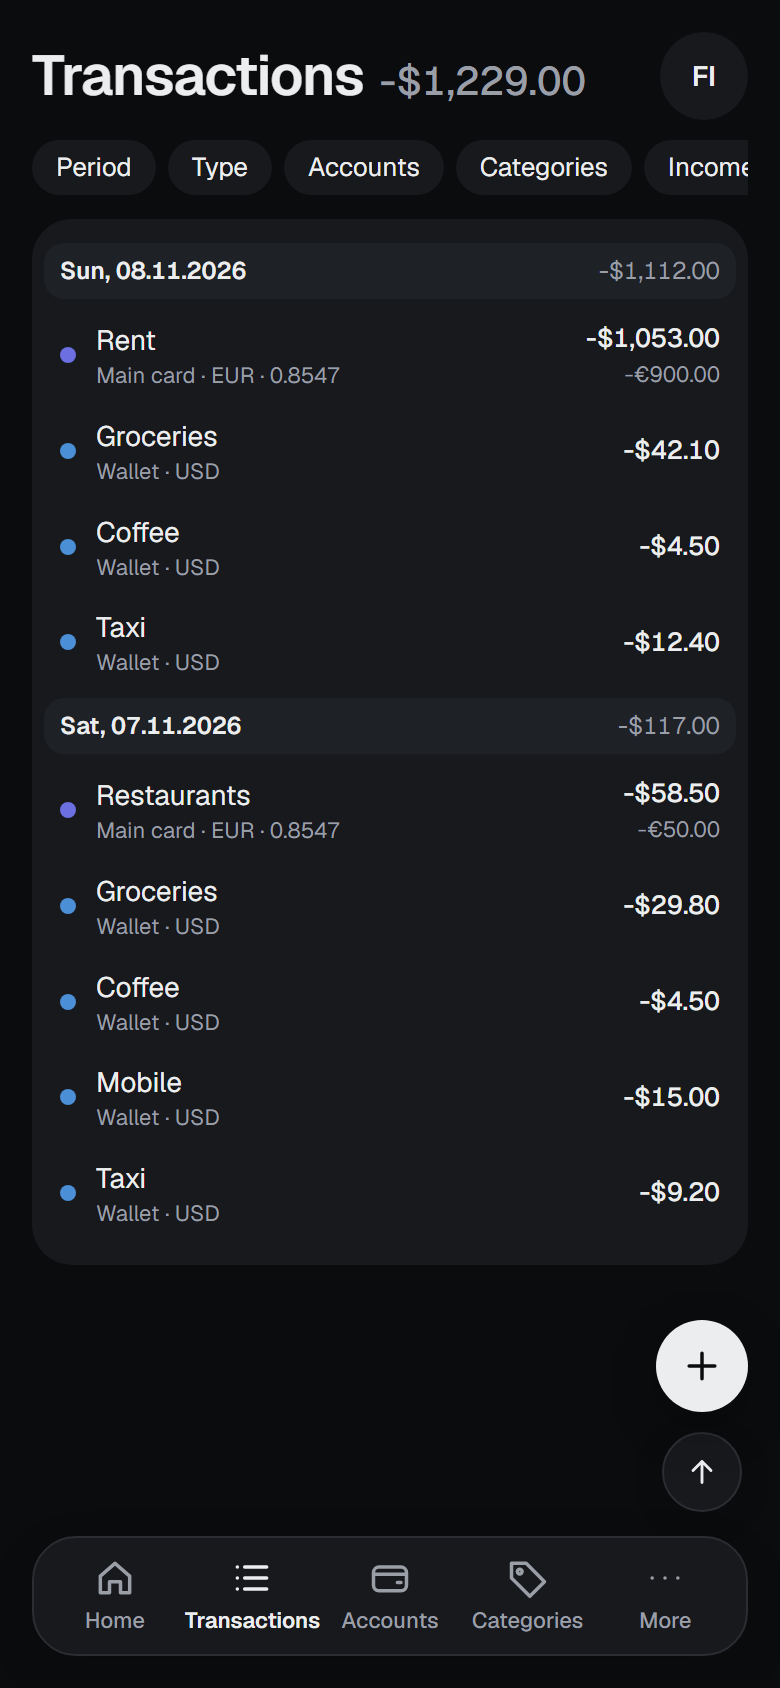
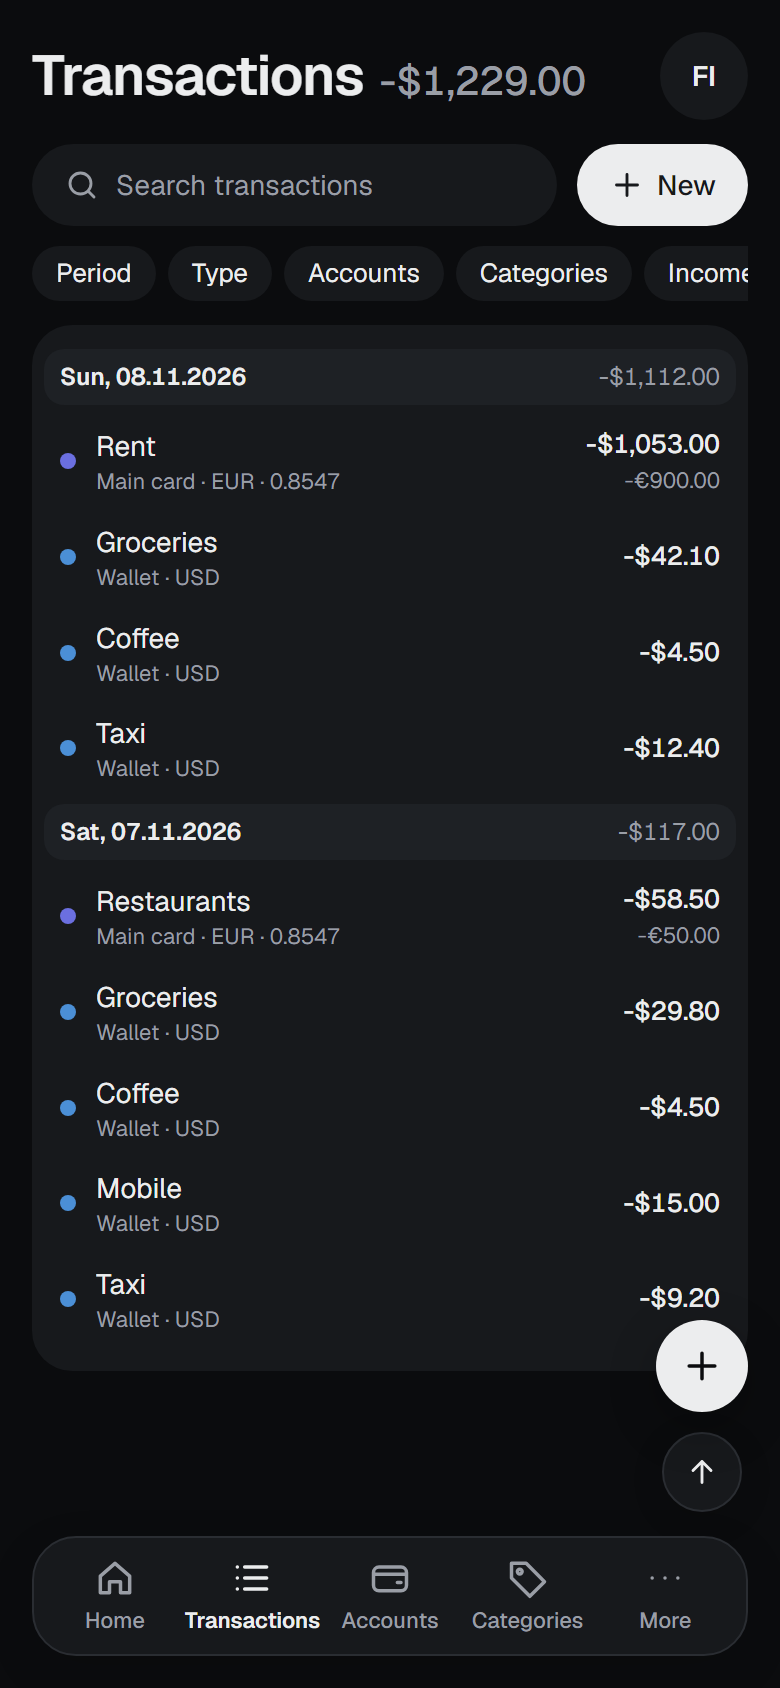
#427: Mockups of the search and New transaction row on Transactions

diff --git a/221/design/screens.html b/221/design/screens.html
@@ -285,6 +285,12 @@ section > p.lead { margin: var(--space-1) 0 var(--space-4); color: var(--color-m
   </section>
 
   <section>
+    <h2>7 · Transactions: search and New</h2>
+    <p class="lead">Agreed: Transactions gets the row of the other sections above its filter chips, the search by text on the left and New transaction on the right. The search looks in the comment, the names of the accounts of a transaction and the name of its location. The floating add button and the sidebar button stay.</p>
+    <div class="boards" id="searchBoards"></div>
+  </section>
+
+  <section>
     <h2>What else changes</h2>
     <ul class="notes">
       <li><b>No amounts in the rows.</b> The API's balance of a category or an income source is its all-time total, so the rows show the name and the description only.</li>
@@ -430,6 +436,7 @@ section > p.lead { margin: var(--space-1) 0 var(--space-4); color: var(--color-m
     ] },
   ];
   const chipsHtml = `<div class="filters chipRow">${['Period', 'Type', 'Accounts', 'Categories', 'Income', 'Locations', 'Amount', 'Sort'].map((c) => `<span class="chip">${c}</span>`).join('')}</div>`;
+  const txToolbar = `${toolbar({ placeholder: 'Search transactions', newLabel: 'transaction' })}${chipsHtml}`;
 
   document.getElementById('navBoards').innerHTML = [
     variant({ id: 'more-popover-phone', name: 'More opens a menu above the bar', note: 'A small popover anchored to More with Locations and Income sources, closed by an outside click like the account menu.',
@@ -437,8 +444,8 @@ section > p.lead { margin: var(--space-1) 0 var(--space-4); color: var(--color-m
         overlay: `<div class="popover"><div class="menuRows">${moreRows()}</div></div>` }) }),
     variant({ id: 'more-current-phone', name: 'Inside a More section', note: 'More stays marked as current while Locations or Income sources is open.',
       board: phoneBoard({ active: 'income', title: 'Income sources', count: '4', toolbar: toolbar({ placeholder: 'Search income sources', newLabel: 'income source' }), filters: statusOnly(true), list: flat(incomeSources, { kind: 'income', isSelectable: false }) }) }),
-    variant({ id: 'back-to-top-phone', name: 'Add and Back to top', note: 'Back to top of a scrolled Transactions list shows under the add button, a little smaller; the add button moves up to make room and comes back down when the arrow goes.',
-      board: phoneBoard({ active: 'transactions', title: 'Transactions', count: '-$1,229.00', toolbar: chipsHtml, list: txList(feedDays), extra: `<span class="toTop">${icon('up')}</span>` }) }),
+    variant({ id: 'back-to-top-phone', name: 'Add and Back to top', note: 'Back to top of a scrolled Transactions list shows under the add button, a little smaller; the add button moves up to make room and comes back down when the arrow goes. Transactions has the row of the other sections above its filter chips: the search by text and New transaction.',
+      board: phoneBoard({ active: 'transactions', title: 'Transactions', count: '-$1,229.00', toolbar: txToolbar, list: txList(feedDays), extra: `<span class="toTop">${icon('up')}</span>` }) }),
   ].join('');
 
   document.getElementById('catDesktopBoards').innerHTML = [
@@ -512,8 +519,8 @@ section > p.lead { margin: var(--space-1) 0 var(--space-4); color: var(--color-m
   const cigarettes = categories.Variable.find((c) => c.deleted);
   const spar = locations[0];
   const feedWithSelection = txList(feedDays.map((d, i) => ({ ...d, rows: d.rows.map((r, j) => (i === 0 && j === 1 ? { ...r, selected: true } : r)) })));
-  const txBoard = (panels) => desktopBoard({ active: 'transactions', title: 'Transactions', count: '-$1,229.00', toolbar: chipsHtml, filters: '', list: feedWithSelection, aside: `<div class="detailsColumn">${panels.join('')}</div>` });
-  const txPhone = (sheet) => phoneBoard({ active: 'transactions', title: 'Transactions', count: '-$1,229.00', toolbar: chipsHtml, list: feedWithSelection, overlay: `<div class="backdrop"></div><div class="bsheet" style="padding:0">${sheet}</div>` });
+  const txBoard = (panels) => desktopBoard({ active: 'transactions', title: 'Transactions', count: '-$1,229.00', toolbar: txToolbar, filters: '', list: feedWithSelection, aside: `<div class="detailsColumn">${panels.join('')}</div>` });
+  const txPhone = (sheet) => phoneBoard({ active: 'transactions', title: 'Transactions', count: '-$1,229.00', toolbar: txToolbar, list: feedWithSelection, overlay: `<div class="backdrop"></div><div class="bsheet" style="padding:0">${sheet}</div>` });
 
   document.getElementById('detailBoards').innerHTML = [
     variant({ id: 'transaction-category-desktop', wide: true, name: 'Category opened from a transaction', note: 'The category of the postings and the location are links, like a money account. The opened one takes the place of the account in the details column, with Transactions, Edit and Delete.',
@@ -524,6 +531,13 @@ section > p.lead { margin: var(--space-1) 0 var(--space-4); color: var(--color-m
       board: txPhone(entryDetails({ entry: groceries, kind: 'category', meta: 'Category · Variable', close: true, inSheet: true })) }),
     variant({ id: 'deleted-category-details-phone', name: 'Deleted category details', note: 'A deleted one offers Transactions and Restore.',
       board: txPhone(entryDetails({ entry: cigarettes, kind: 'category', meta: 'Category · Variable', close: true, inSheet: true })) }),
+  ].join('');
+
+  document.getElementById('searchBoards').innerHTML = [
+    variant({ id: 'transactions-search-phone', name: 'Transactions with search on a phone', note: 'The search field takes the free width and New keeps its short label; the chips scroll sideways under them.',
+      board: phoneBoard({ active: 'transactions', title: 'Transactions', count: '-$1,229.00', toolbar: txToolbar, list: txList(feedDays) }) }),
+    variant({ id: 'transactions-search-desktop', wide: true, name: 'Transactions with search on desktop', note: 'The search field and New transaction sit at the left above the chips, as in the other sections.',
+      board: txBoard([transactionDetails({ category: groceries, location: spar })]) }),
   ].join('');
 
   document.querySelectorAll('.phone .desktopOnly').forEach((el) => el.remove());
